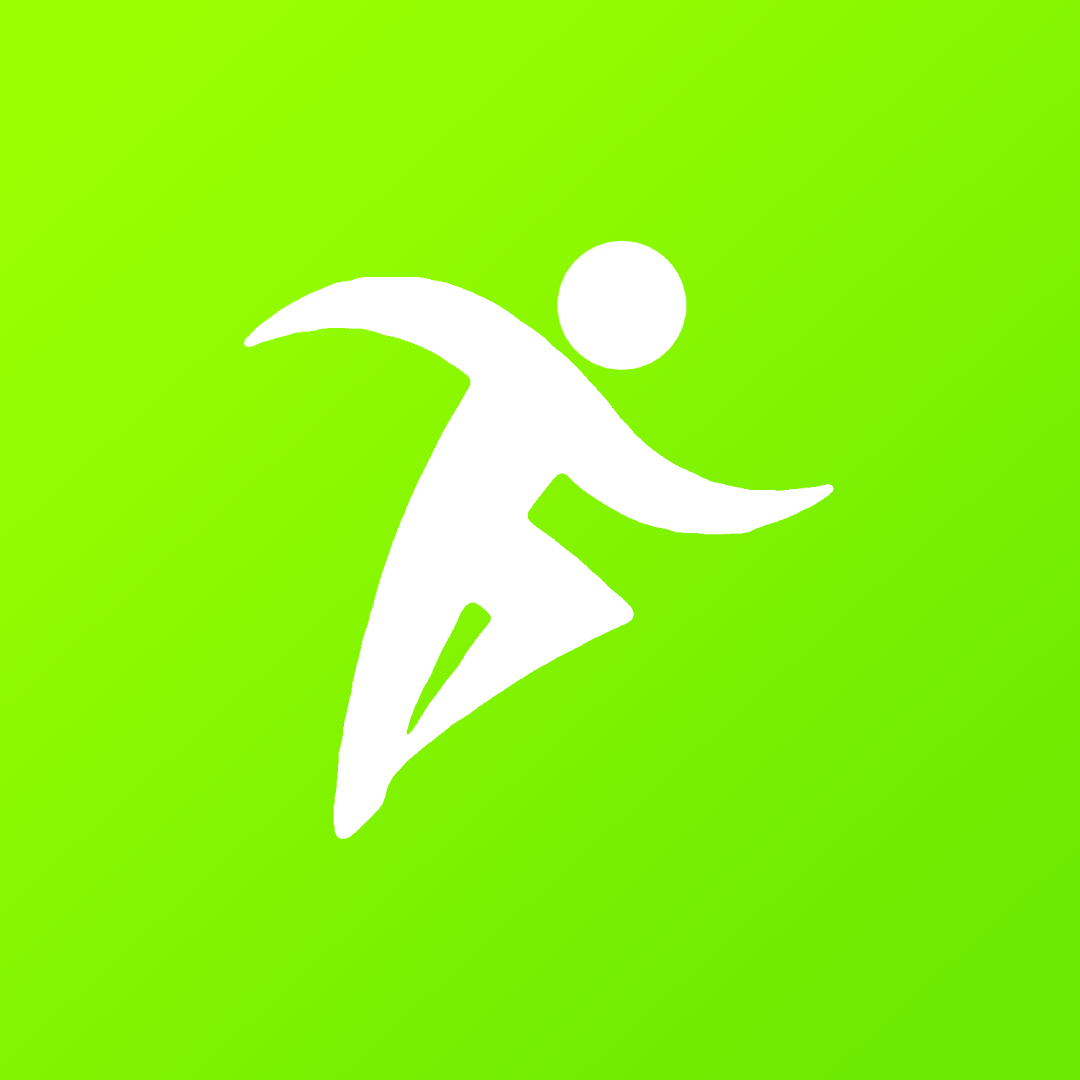
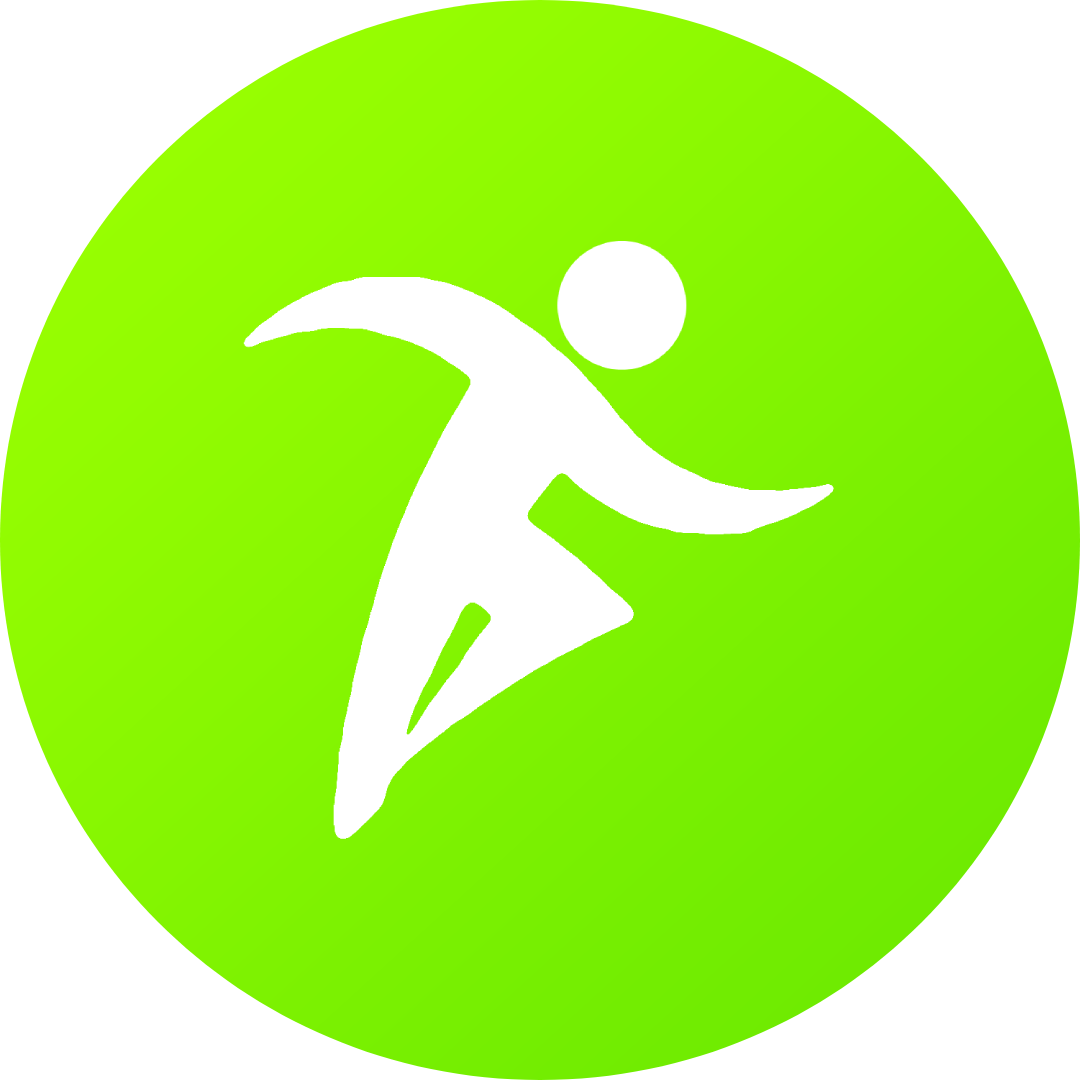
Update dependencies, Android configurations, and app title
- Upgraded several dependencies in pubspec.yaml and pubspec.lock, including intl, flutter_lints, and flutter_launcher_icons.
- Modified AndroidManifest.xml to include new features and permissions for wearable support.
- Updated build.gradle to implement a release signing configuration.
- Changed app title from 'Flutter Demo' to 'Gym Helper' in main.dart.
- Reset stopwatch in counter_page.dart on series increment.
- Adjusted counter status display logic in counter_status_display.dart.
- Replaced app icons in mipmap directories and updated the main icon asset.

diff --git a/PRIVACY_POLICY.html b/PRIVACY_POLICY.html
@@ -1,0 +1,138 @@
+<!DOCTYPE html>
+<html lang="pt-BR">
+<head>
+    <meta charset="UTF-8">
+    <meta name="viewport" content="width=device-width, initial-scale=1.0">
+    <title>Política de Privacidade - Gym Helper</title>
+    <style>
+        body {
+            font-family: Arial, sans-serif;
+            line-height: 1.6;
+            max-width: 800px;
+            margin: 0 auto;
+            padding: 20px;
+            color: #333;
+        }
+        h1 {
+            color: #2e7d32;
+            border-bottom: 3px solid #2e7d32;
+            padding-bottom: 10px;
+        }
+        h2 {
+            color: #388e3c;
+            margin-top: 30px;
+        }
+        .last-updated {
+            color: #666;
+            font-style: italic;
+            margin-bottom: 30px;
+        }
+    </style>
+</head>
+<body>
+    <h1>Política de Privacidade</h1>
+    <p class="last-updated">Última atualização: <span id="date"></span></p>
+
+    <h2>1. Introdução</h2>
+    <p>
+        Esta Política de Privacidade descreve como o aplicativo "Gym Helper" ("nós", "nosso" ou "aplicativo") 
+        trata suas informações quando você utiliza nosso serviço. Respeitamos sua privacidade e estamos 
+        comprometidos em proteger seus dados pessoais.
+    </p>
+
+    <h2>2. Informações que Coletamos</h2>
+    <p>
+        <strong>O Gym Helper não coleta, armazena ou transmite nenhum dado pessoal do usuário.</strong>
+    </p>
+    <p>
+        Nosso aplicativo funciona completamente offline e localmente no seu dispositivo. Todas as funcionalidades, 
+        incluindo cronômetros, contadores de séries e intervalos de descanso, são processadas exclusivamente 
+        no seu dispositivo e não são enviadas para servidores externos.
+    </p>
+
+    <h2>3. Permissões do Aplicativo</h2>
+    <p>
+        O Gym Helper solicita as seguintes permissões para funcionar corretamente:
+    </p>
+    <ul>
+        <li>
+            <strong>WAKE_LOCK:</strong> Permite que o aplicativo mantenha a tela do dispositivo ativa durante 
+            o uso do cronômetro, garantindo que você possa visualizar o tempo de descanso mesmo quando o 
+            dispositivo está inativo.
+        </li>
+        <li>
+            <strong>VIBRATE:</strong> Permite que o aplicativo vibre o dispositivo quando o tempo de descanso 
+            terminar, fornecendo uma notificação tátil para alertá-lo.
+        </li>
+    </ul>
+    <p>
+        Essas permissões são utilizadas exclusivamente para as funcionalidades do aplicativo e não são usadas 
+        para coletar ou transmitir dados.
+    </p>
+
+    <h2>4. Armazenamento de Dados</h2>
+    <p>
+        O Gym Helper não armazena dados pessoais, histórico de treinos ou qualquer informação que possa 
+        identificá-lo. Todos os dados temporários (como contadores e cronômetros) são mantidos apenas na 
+        memória do aplicativo durante a sessão de uso e são descartados quando o aplicativo é fechado.
+    </p>
+
+    <h2>5. Compartilhamento de Dados</h2>
+    <p>
+        Como não coletamos dados pessoais, não compartilhamos, vendemos ou divulgamos informações para 
+        terceiros, parceiros comerciais ou qualquer outra entidade.
+    </p>
+
+    <h2>6. Serviços de Terceiros</h2>
+    <p>
+        O Gym Helper não utiliza serviços de terceiros para análise, publicidade ou qualquer outra finalidade 
+        que envolva coleta de dados. O aplicativo é totalmente independente e não depende de serviços externos.
+    </p>
+
+    <h2>7. Segurança</h2>
+    <p>
+        Como não coletamos ou armazenamos dados pessoais, não há risco de vazamento de informações pessoais 
+        através do nosso aplicativo. Todas as funcionalidades são executadas localmente no seu dispositivo.
+    </p>
+
+    <h2>8. Privacidade de Menores</h2>
+    <p>
+        O Gym Helper não coleta informações de identificação pessoal de qualquer usuário, incluindo menores de idade. 
+        O aplicativo pode ser usado por pessoas de todas as idades sem preocupações relacionadas à privacidade.
+    </p>
+
+    <h2>9. Alterações nesta Política de Privacidade</h2>
+    <p>
+        Podemos atualizar nossa Política de Privacidade ocasionalmente. Recomendamos que você revise esta 
+        página periodicamente para estar ciente de quaisquer alterações. A data da última atualização será 
+        indicada no topo desta página.
+    </p>
+
+    <h2>10. Seus Direitos</h2>
+    <p>
+        Como não coletamos dados pessoais, não há dados para acessar, corrigir ou excluir. Você tem total 
+        controle sobre o uso do aplicativo e pode desinstalá-lo a qualquer momento sem deixar rastros de dados.
+    </p>
+
+    <h2>11. Contato</h2>
+    <p>
+        Se você tiver dúvidas ou preocupações sobre esta Política de Privacidade, entre em contato conosco através 
+        da página do aplicativo na Google Play Store.
+    </p>
+
+    <h2>12. Consentimento</h2>
+    <p>
+        Ao usar o Gym Helper, você concorda com esta Política de Privacidade. Se você não concordar com esta 
+        política, por favor, não utilize o aplicativo.
+    </p>
+
+    <hr style="margin-top: 40px; border: none; border-top: 1px solid #ddd;">
+    <p style="text-align: center; color: #666; font-size: 0.9em;">
+        © 2024 Gym Helper. Todos os direitos reservados.
+    </p>
+
+    <script>
+        document.getElementById('date').textContent = new Date().toLocaleDateString('pt-BR');
+    </script>
+</body>
+</html>

diff --git a/lib/widgets/counter_status_display.dart b/lib/widgets/counter_status_display.dart
@@ -95,7 +95,7 @@ class CounterStatusDisplay extends StatelessWidget {
 
     return switch (status) {
       CounterStatus.resting => "${restSeconds - elapsedSeconds}",
-      CounterStatus.ready => "+${elapsedSeconds - restSeconds}",
+      CounterStatus.ready => "$elapsedSeconds",
       _ => "$elapsedSeconds",
     };
   }

diff --git a/lib/main.dart b/lib/main.dart
@@ -12,7 +12,7 @@ class MyApp extends StatelessWidget {
   @override
   Widget build(BuildContext context) {
     return MaterialApp(
-      title: 'Flutter Demo',
+      title: 'Gym Helper',
       theme: ThemeData(
         primarySwatch: Colors.green,
       ),

diff --git a/lib/pages/counter_page.dart b/lib/pages/counter_page.dart
@@ -111,6 +111,7 @@ class _CounterPageState extends State<CounterPage> {
       _series++;
       _counter = 0;
       _status = CounterStatus.ready;
+      _stopwatch.reset();
     });
   }
 

diff --git a/PRIVACY_POLICY.md b/PRIVACY_POLICY.md
@@ -1,0 +1,63 @@
+# Política de Privacidade - Gym Helper
+
+**Última atualização:** [Data da última atualização]
+
+## 1. Introdução
+
+Esta Política de Privacidade descreve como o aplicativo "Gym Helper" ("nós", "nosso" ou "aplicativo") trata suas informações quando você utiliza nosso serviço. Respeitamos sua privacidade e estamos comprometidos em proteger seus dados pessoais.
+
+## 2. Informações que Coletamos
+
+**O Gym Helper não coleta, armazena ou transmite nenhum dado pessoal do usuário.**
+
+Nosso aplicativo funciona completamente offline e localmente no seu dispositivo. Todas as funcionalidades, incluindo cronômetros, contadores de séries e intervalos de descanso, são processadas exclusivamente no seu dispositivo e não são enviadas para servidores externos.
+
+## 3. Permissões do Aplicativo
+
+O Gym Helper solicita as seguintes permissões para funcionar corretamente:
+
+- **WAKE_LOCK:** Permite que o aplicativo mantenha a tela do dispositivo ativa durante o uso do cronômetro, garantindo que você possa visualizar o tempo de descanso mesmo quando o dispositivo está inativo.
+
+- **VIBRATE:** Permite que o aplicativo vibre o dispositivo quando o tempo de descanso terminar, fornecendo uma notificação tátil para alertá-lo.
+
+Essas permissões são utilizadas exclusivamente para as funcionalidades do aplicativo e não são usadas para coletar ou transmitir dados.
+
+## 4. Armazenamento de Dados
+
+O Gym Helper não armazena dados pessoais, histórico de treinos ou qualquer informação que possa identificá-lo. Todos os dados temporários (como contadores e cronômetros) são mantidos apenas na memória do aplicativo durante a sessão de uso e são descartados quando o aplicativo é fechado.
+
+## 5. Compartilhamento de Dados
+
+Como não coletamos dados pessoais, não compartilhamos, vendemos ou divulgamos informações para terceiros, parceiros comerciais ou qualquer outra entidade.
+
+## 6. Serviços de Terceiros
+
+O Gym Helper não utiliza serviços de terceiros para análise, publicidade ou qualquer outra finalidade que envolva coleta de dados. O aplicativo é totalmente independente e não depende de serviços externos.
+
+## 7. Segurança
+
+Como não coletamos ou armazenamos dados pessoais, não há risco de vazamento de informações pessoais através do nosso aplicativo. Todas as funcionalidades são executadas localmente no seu dispositivo.
+
+## 8. Privacidade de Menores
+
+O Gym Helper não coleta informações de identificação pessoal de qualquer usuário, incluindo menores de idade. O aplicativo pode ser usado por pessoas de todas as idades sem preocupações relacionadas à privacidade.
+
+## 9. Alterações nesta Política de Privacidade
+
+Podemos atualizar nossa Política de Privacidade ocasionalmente. Recomendamos que você revise esta página periodicamente para estar ciente de quaisquer alterações. A data da última atualização será indicada no topo desta página.
+
+## 10. Seus Direitos
+
+Como não coletamos dados pessoais, não há dados para acessar, corrigir ou excluir. Você tem total controle sobre o uso do aplicativo e pode desinstalá-lo a qualquer momento sem deixar rastros de dados.
+
+## 11. Contato
+
+Se você tiver dúvidas ou preocupações sobre esta Política de Privacidade, entre em contato conosco através da página do aplicativo na Google Play Store.
+
+## 12. Consentimento
+
+Ao usar o Gym Helper, você concorda com esta Política de Privacidade. Se você não concordar com esta política, por favor, não utilize o aplicativo.
+
+---
+
+© 2026 Gym Helper. Todos os direitos reservados.
